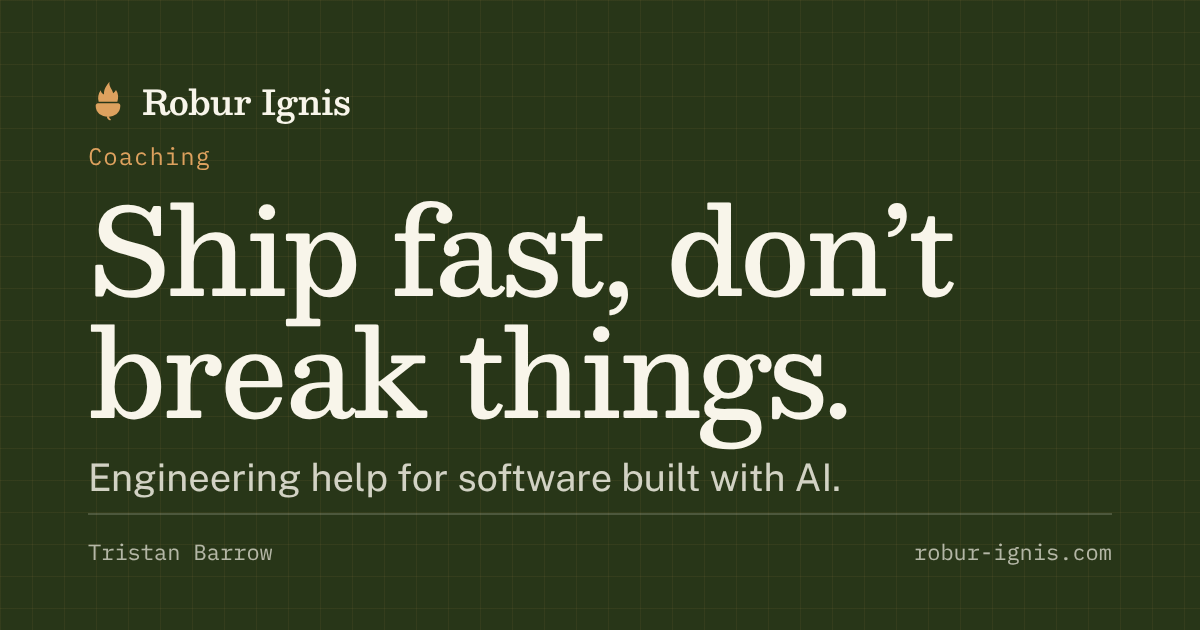
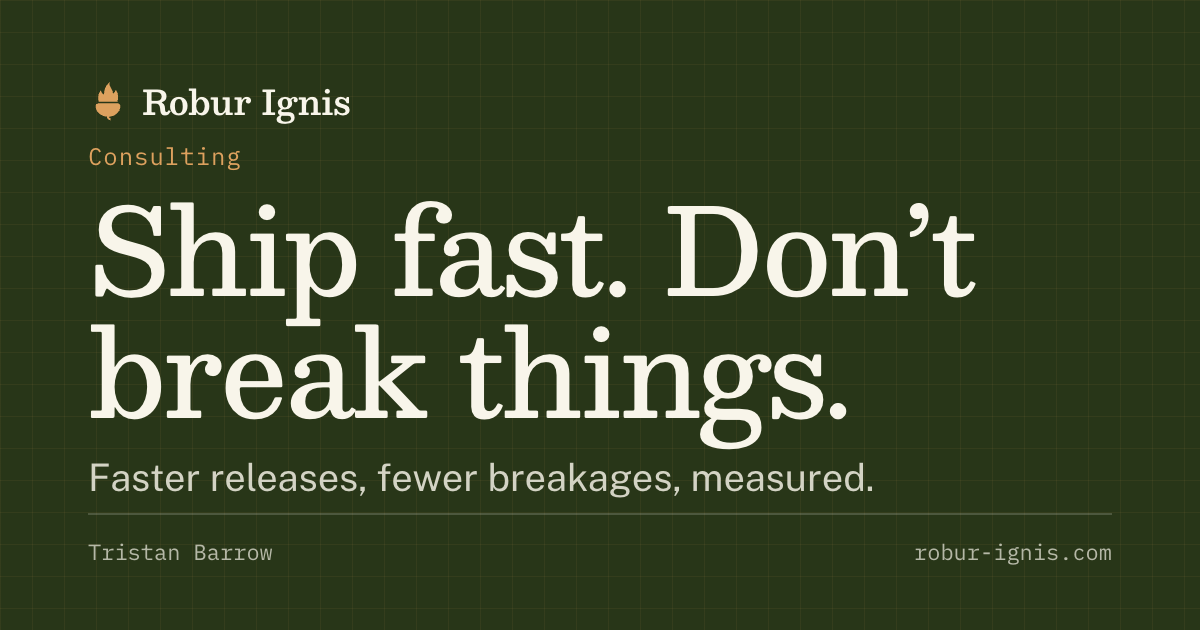
Reposition site around DORA metrics and software delivery
New home title, description, footer line and share image; "How it works"
section built on the measure/diagnose/fix/repeat loop, with four DORA
metrics plus product owner task cycle time. Copy fixes across hero and
about, and the hero no longer repeats the about intro.

diff --git a/design/og/article.html b/design/og/article.html
@@ -1,7 +1,7 @@
 <!doctype html>
 <!--
   Share image template for articles (1200×630, the size LinkedIn and others use).
-  Title and subtitle come from the query string, e.g.
+  Title, subtitle and label (default "Article") come from the query string, e.g.
     article.html?title=Hacked&subtitle=How%20AI%20changed%20security...
   Render with headless Chrome, saving to public/og/<article>.png:
     "/Applications/Google Chrome.app/Contents/MacOS/Google Chrome" --headless=new \
@@ -110,7 +110,7 @@
       Robur Ignis
     </div>
     <main>
-      <p class="label">Article</p>
+      <p class="label" id="label">Article</p>
       <h1 id="title"></h1>
       <p class="subtitle" id="subtitle"></p>
     </main>
@@ -122,6 +122,7 @@
       const params = new URLSearchParams(location.search);
       document.getElementById("title").textContent = params.get("title") ?? "Title";
       document.getElementById("subtitle").textContent = params.get("subtitle") ?? "";
+      document.getElementById("label").textContent = params.get("label") ?? "Article";
     </script>
   </body>
 </html>

diff --git a/src/config.ts b/src/config.ts
@@ -6,9 +6,9 @@ export const site = {
   name: "Robur Ignis",
   tagline: "The strength to withstand the fire.",
   // What the homepage is about in the words people search with; used as its <title>.
-  homeTitle: "AI Software Development Coaching & Consulting",
+  homeTitle: "DORA Metrics & Software Delivery Consulting",
   description:
-    "Coaching and consulting from Tristan Barrow for teams building software with AI: spec-based harnesses, code visualization and practical AI workflows.",
+    "Tristan Barrow helps software teams ship faster without breaking things, using DORA metrics to find the bottleneck, fix it and prove it worked.",
   // Share image used when a page doesn't set its own (1200×630, under public/).
   defaultImage: "/og/default.png",
   logo: "/favicon.svg",
@@ -27,7 +27,7 @@ export const site = {
 };
 
 export const nav = [
-  { label: "Services", href: "/#services" },
+  { label: "How it works", href: "/#services" },
   { label: "About", href: "/#about" },
   { label: "Articles", href: "/articles/" },
 ];
